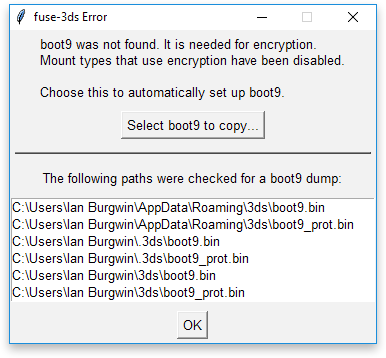
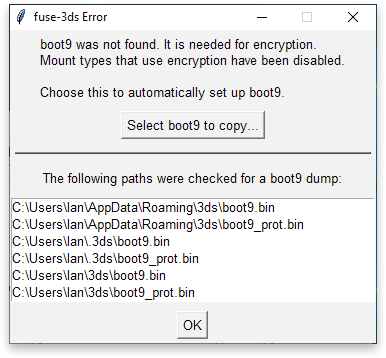
version 1.3; update screenshots for Windows 10, version 1809

Changed region(s): [[0.2176, 0.5531, 0.9326, 0.8603]]

diff --git a/setup.py b/setup.py
@@ -12,7 +12,7 @@ with open('README.md', 'r', encoding='utf-8') as f:
 
 setup(
     name='fuse-3ds',
-    version='1.3b1.dev1',
+    version='1.3',
     packages=find_packages(),
     url='https://github.com/ihaveamac/fuse-3ds',
     license='MIT',

diff --git a/fuse3ds/__init__.py b/fuse3ds/__init__.py
@@ -7,4 +7,4 @@
 __author__    = 'ihaveamac'
 __copyright__ = 'Copyright (c) 2017-2018 Ian Burgwin'
 __license__   = 'MIT'
-__version__   = '1.3b1.dev1'
+__version__   = '1.3'
